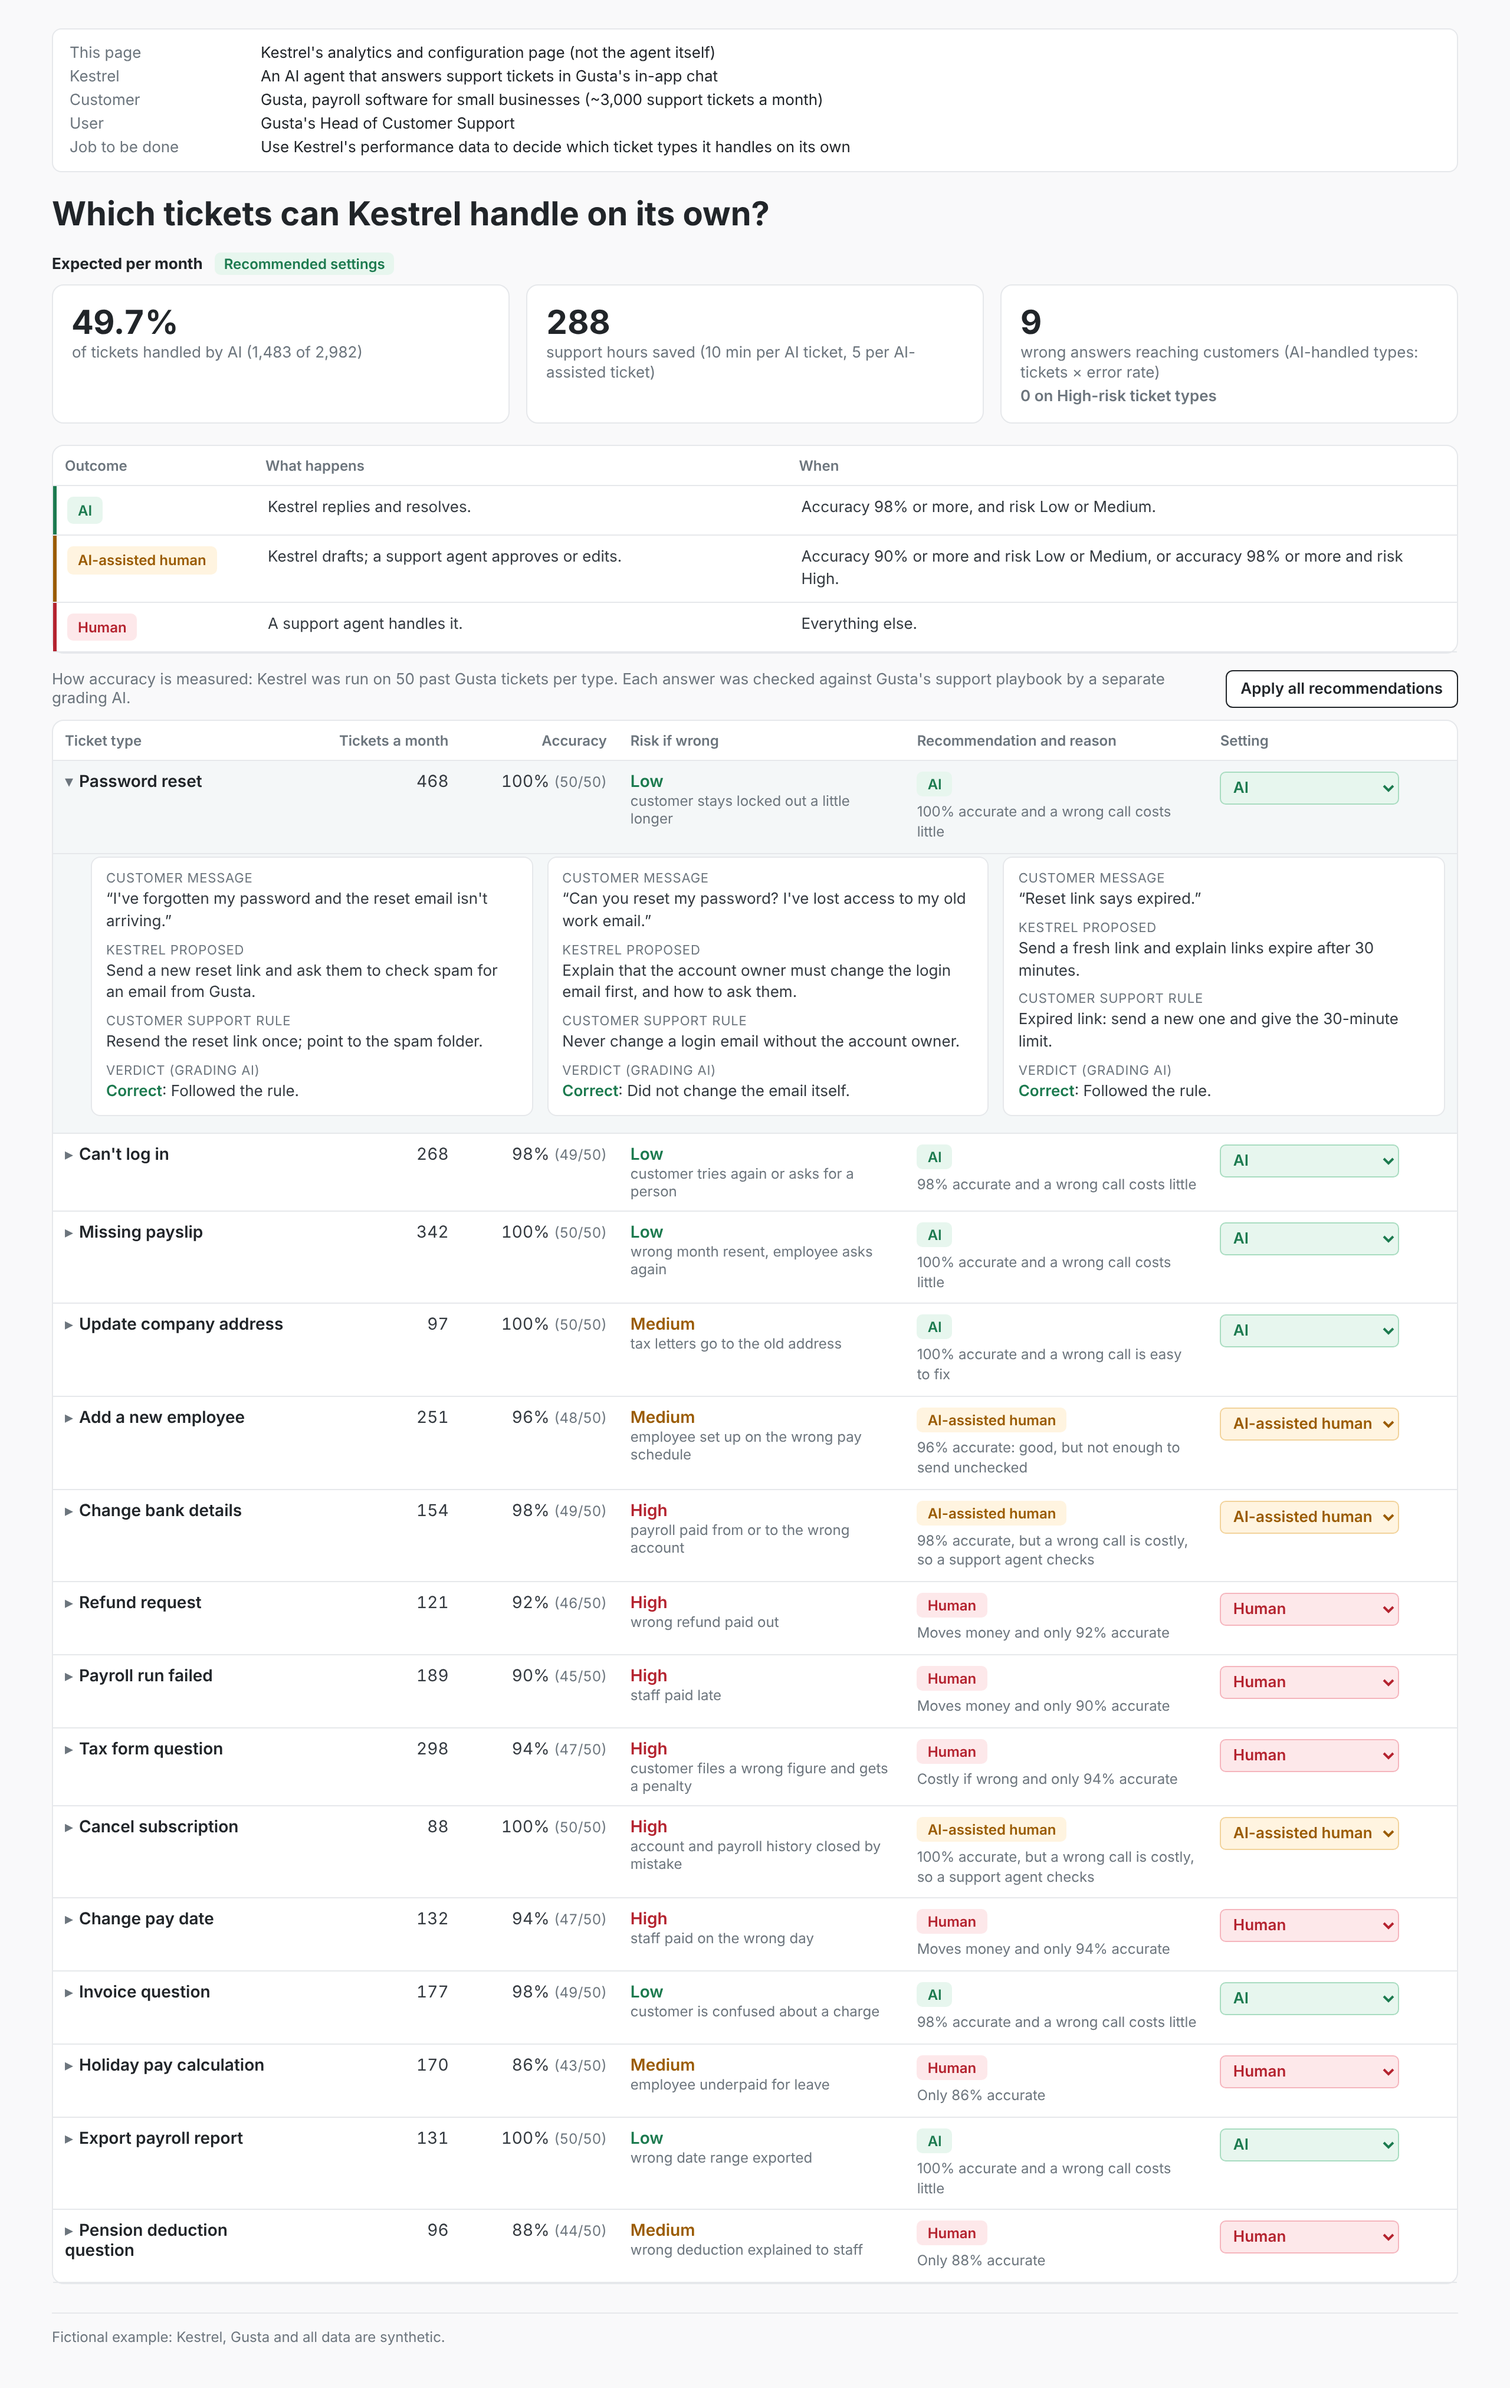
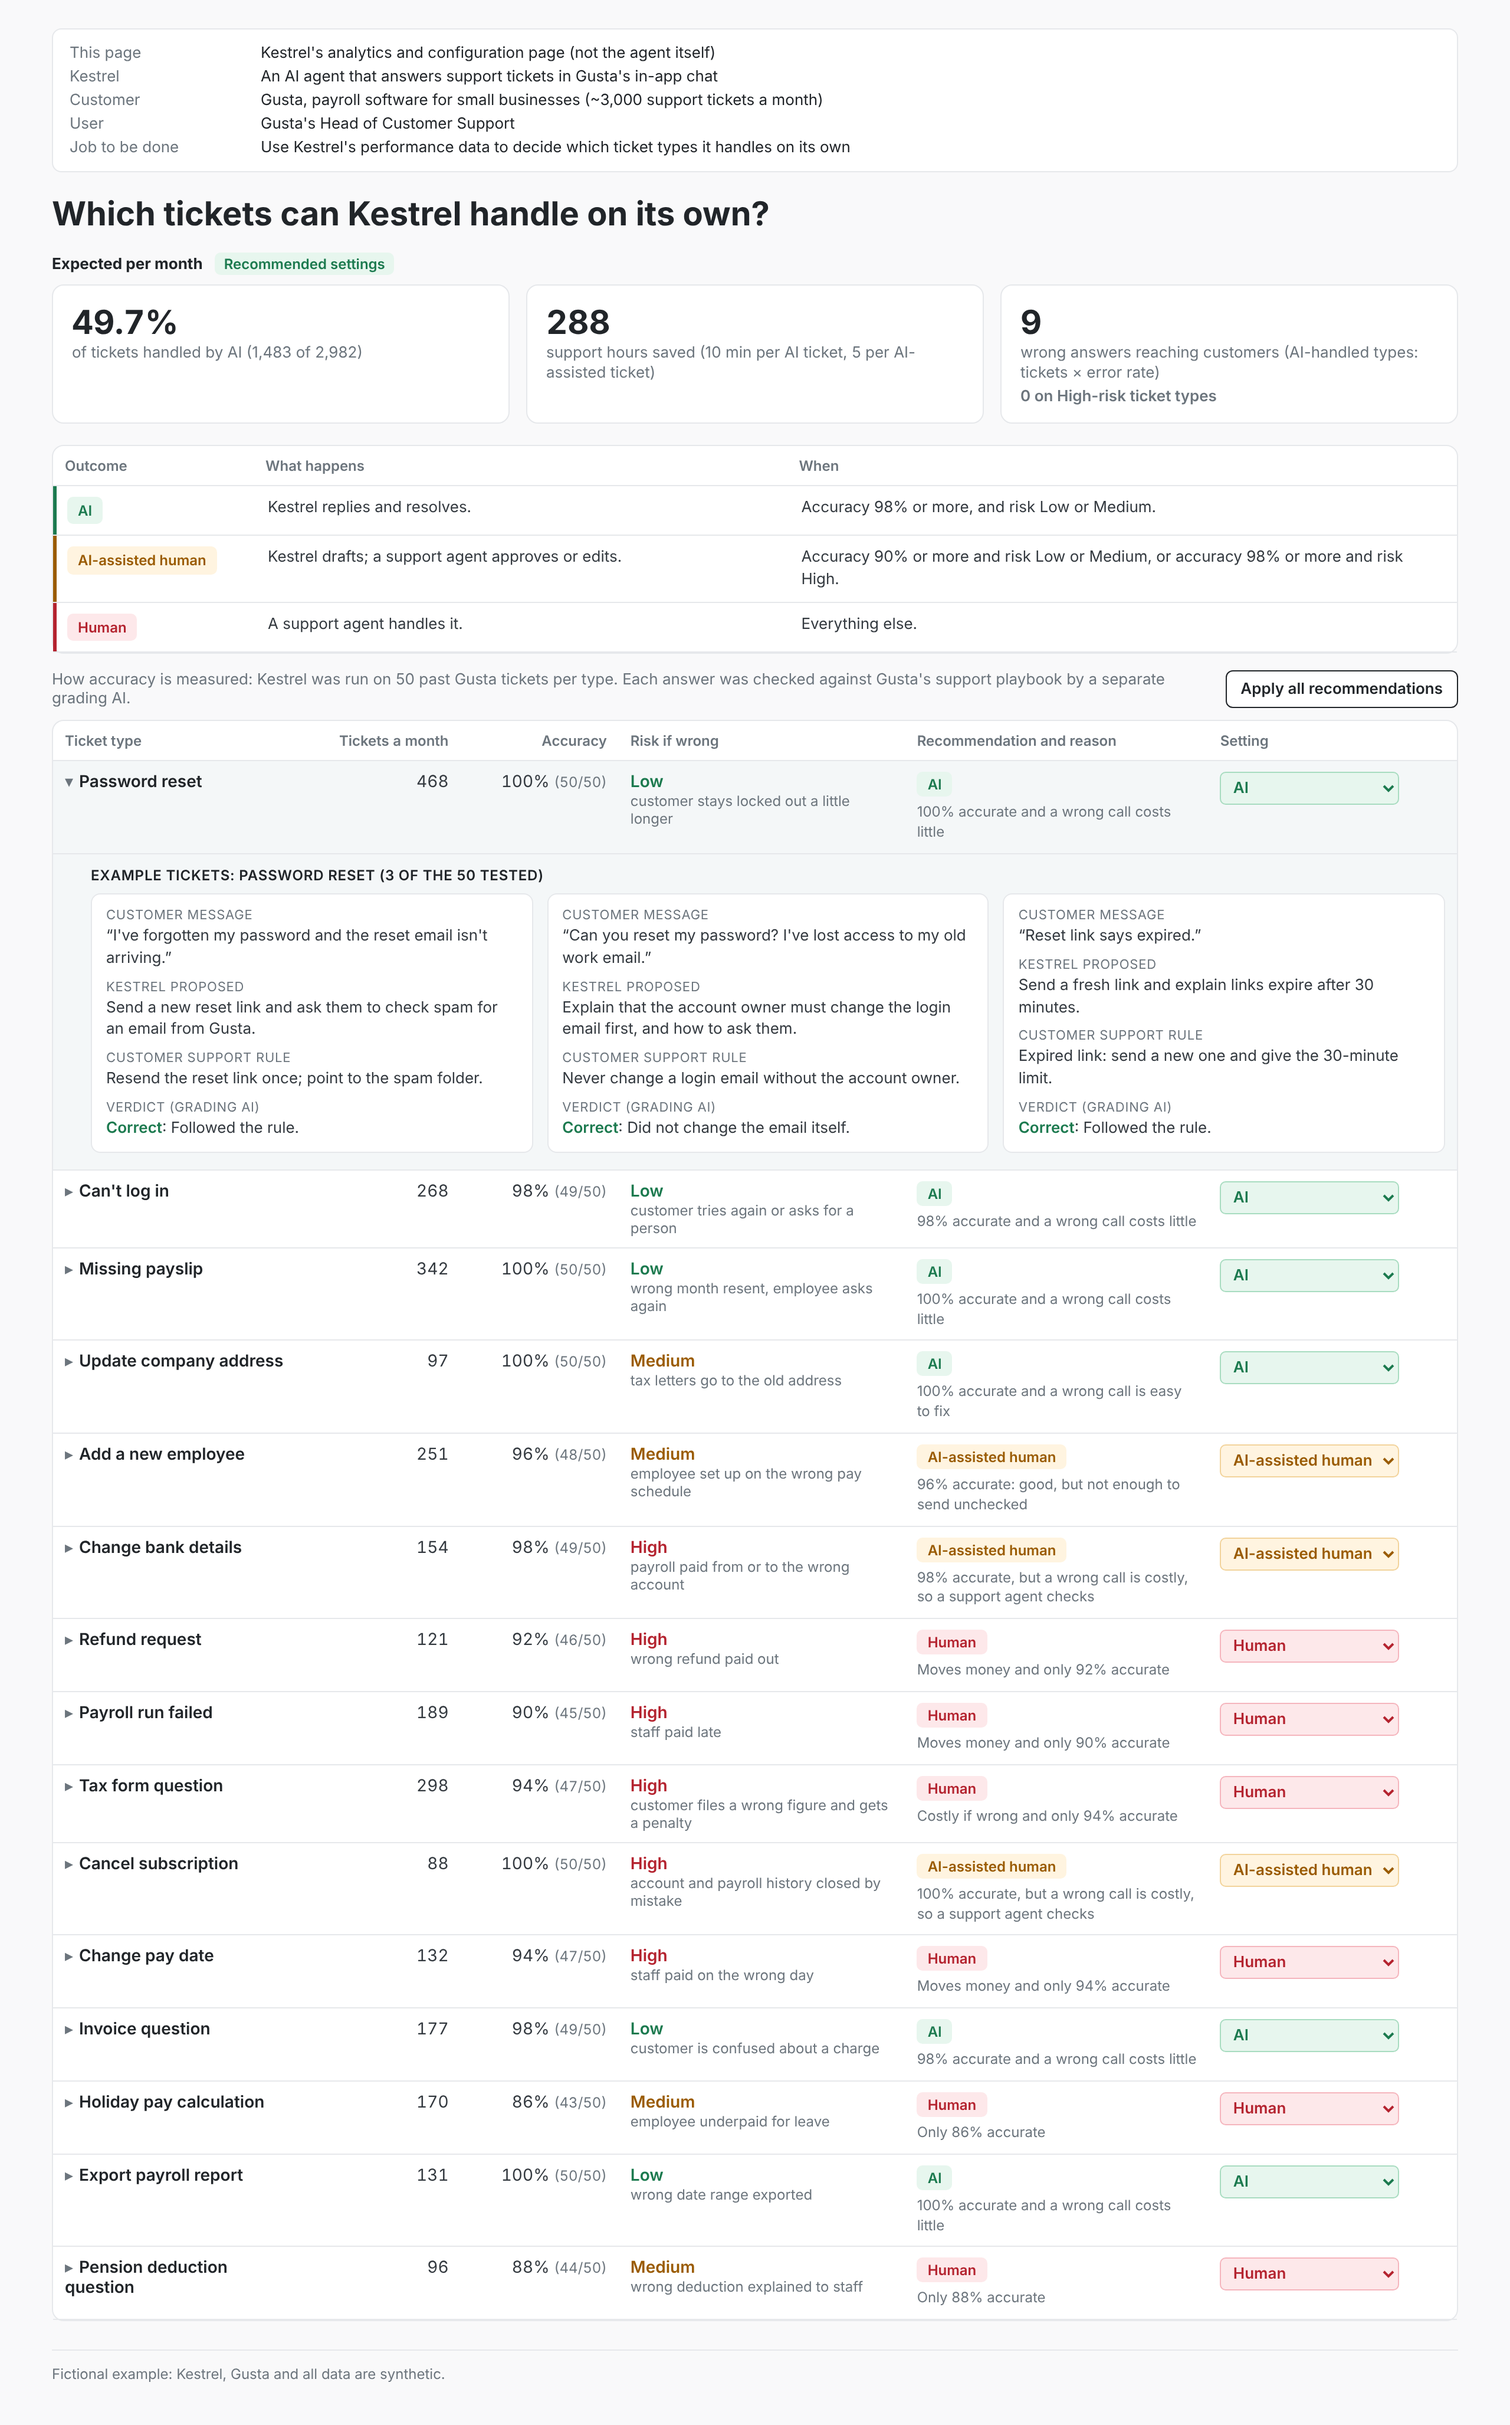
Example tickets heading in each expanded row
Claude-Session: https://claude.ai/code/session_016JoguXTxkWcj5knaYbAtMZ

diff --git a/examples/kestrel/run/build/mvp.html b/examples/kestrel/run/build/mvp.html
@@ -45,6 +45,7 @@ select option{background:#fff;color:var(--head);font-weight:400}
 .tag{display:inline-block;font-size:11px;font-weight:600;padding:2px 6px;border-radius:4px;background:#eef0f2;color:var(--mute);margin-top:4px}
 .warn{font-size:12px;color:var(--hum);margin-top:4px}
 tr.detail td{background:var(--open);padding:2px 10px 14px 32px}
+.exhead{font-size:12px;font-weight:600;color:var(--head);text-transform:uppercase;letter-spacing:.4px;margin:8px 0 8px}
 .exgrid{display:grid;grid-template-columns:repeat(3,1fr);gap:12px}
 .exbox{background:#fff;border:1px solid var(--line);border-radius:8px;padding:10px 12px;font-size:13px;line-height:1.45}
 .exbox p{margin:0 0 7px}.exbox p:last-child{margin:0}
@@ -132,7 +133,7 @@ function render(){
       <td><span class="chip c-${rec}">${LABEL[rec]}</span><div class="reason">${t.reason}</div></td>
       <td onclick="event.stopPropagation()"><select class="s-${set}" data-i="${i}" onchange="setMode(${i}, this.value)">${['resolve', 'draft', 'human'].map(m => `<option value="${m}"${m === set ? ' selected' : ''}>${LABEL[m]}</option>`).join('')}</select>${over}${warn}</td>
 </tr>`;
-    const det = isOpen ? `<tr class="detail"><td colspan="6"><div class="exgrid">${t.examples.map(e => `<div class="exbox">
+    const det = isOpen ? `<tr class="detail"><td colspan="6"><div class="exhead">Example tickets: ${t.name} (3 of the ${n} tested)</div><div class="exgrid">${t.examples.map(e => `<div class="exbox">
       <p><span class="lbl">Customer message</span>“${e.message}”</p>
       <p><span class="lbl">${K} proposed</span>${e.proposed}</p>
       <p><span class="lbl">Customer support rule</span>${e.rule}</p>

diff --git a/examples/kestrel/run/build/check_mvp.js b/examples/kestrel/run/build/check_mvp.js
@@ -17,6 +17,7 @@ const srv = http.createServer((q, r) => { const f = path.join(root, decodeURICom
   t('rules before the table', await p.evaluate(() => !!(document.querySelector('#rules').compareDocumentPosition(document.querySelector('#types')) & Node.DOCUMENT_POSITION_FOLLOWING)));
   t('15 rows, Password reset expanded by default', (await p.$$('tr.row')).length === 15 && (await p.$$('tr.detail')).length === 1 && (await txt('tr.row.open')).includes('Password reset'));
   const det = await txt('tr.detail');
+  t('each expanded row has an Example tickets heading', det.includes('Example tickets: Password reset (3 of the 50 tested)'));
   t('examples use the four labels', ['Customer message', 'Kestrel proposed', 'Customer support rule', 'Verdict (grading AI)'].every(l => det.includes(l)));
   await p.click('tr.row:has-text("Refund request")');
   t('clicking a row expands it, with a Wrong example', (await p.$$('tr.detail')).length === 2 && (await txt('#types')).includes('February was still due'));
